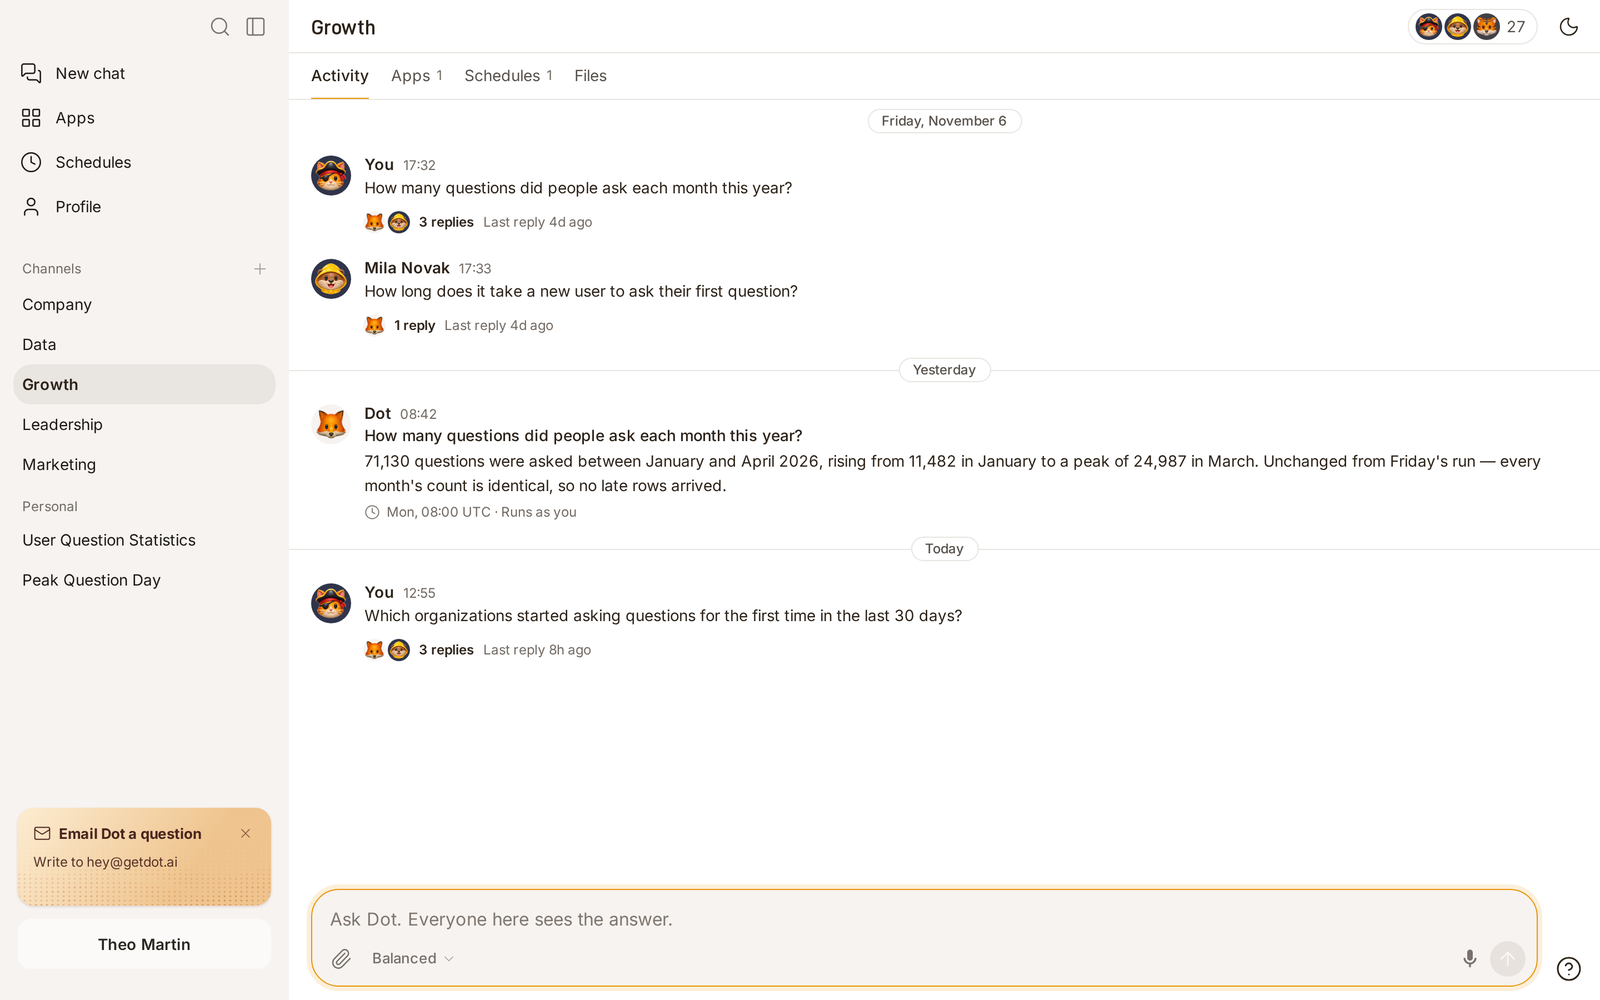
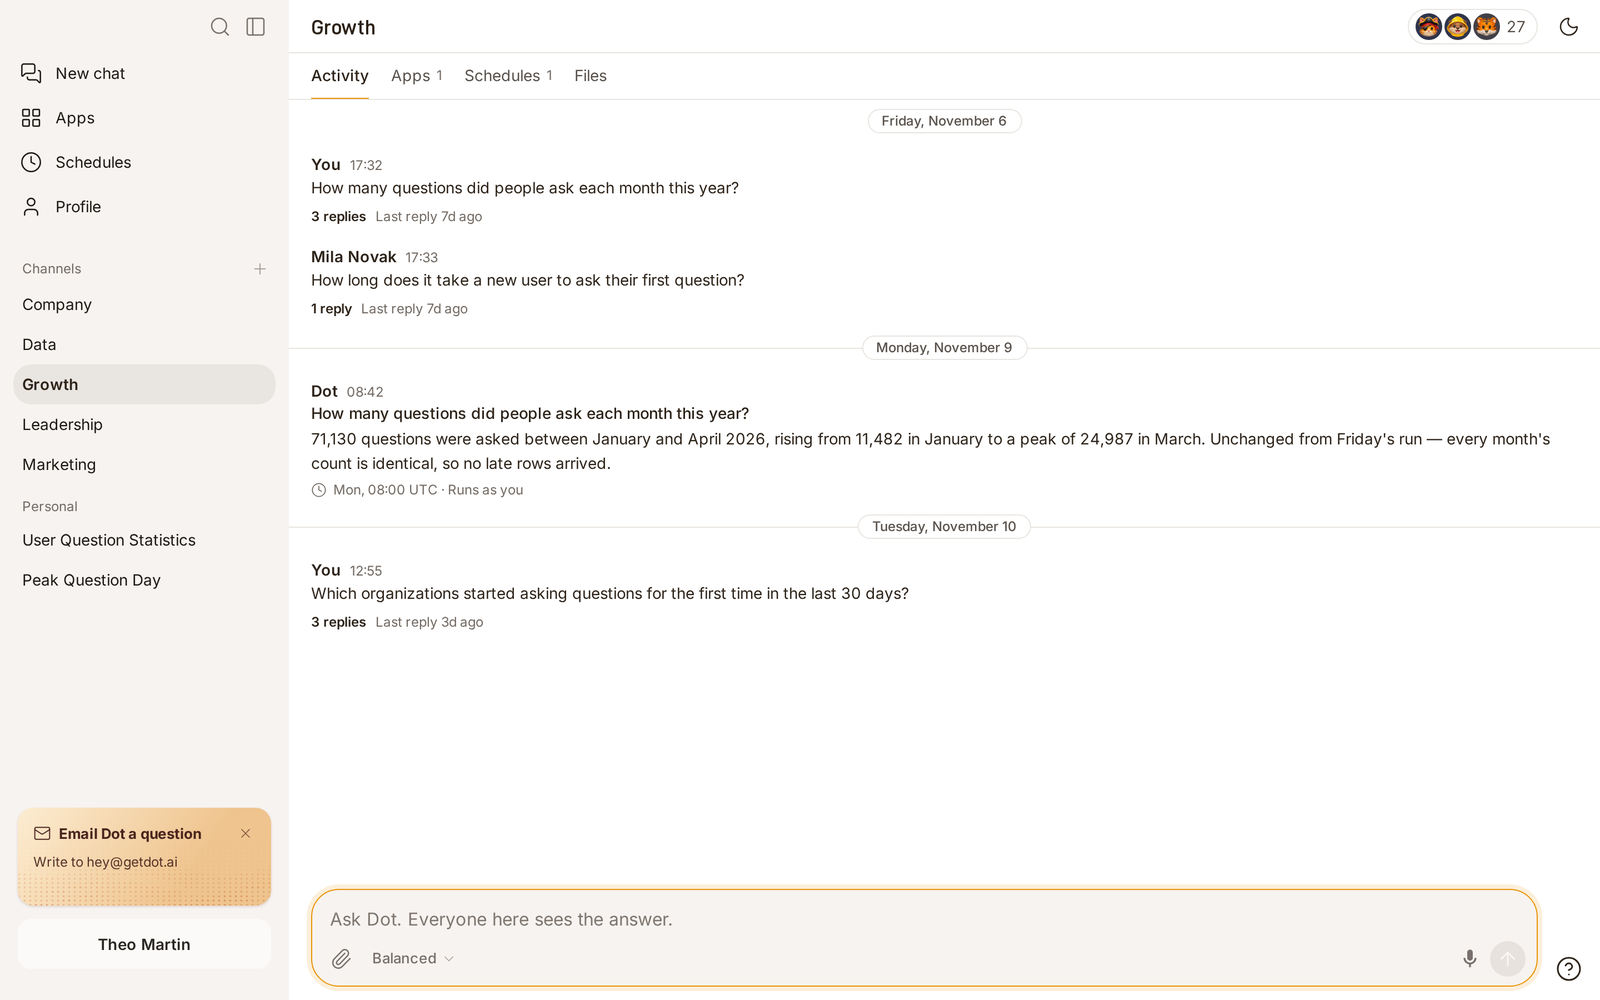
docs: a channel's posts without faces
A channel's activity no longer shows a face beside each post or in
its reply line, so the reply line says how many replies and when the
last came. The two channel pictures are retaken.

diff --git a/dot/dot/whats-dot/teams.md b/dot/dot/whats-dot/teams.md
@@ -15,7 +15,7 @@ A channel is your team's place in Dot. It holds the team's questions to Dot, its
 
 Your question appears in the channel, and its thread opens beside it. Dot answers in the thread, with your own data access, and everyone in the channel sees the answer. To ask a follow-up, use the box in the thread.
 
-Each question in the channel shows who asked it and when. Below it, a line says how many replies the thread has, who replied, and when the last reply came. Click a question or its replies to open the thread. To open a thread as a page of its own, click the arrows at its top.
+Each question in the channel shows who asked it and when. Below it, a line says how many replies the thread has and when the last reply came. Click a question or its replies to open the thread. To open a thread as a page of its own, click the arrows at its top.
 
 <figure><img src="../../.gitbook/assets/team-channel-thread.png" alt="A question's thread open beside the channel, with Dot's answer and a chart"><figcaption><p>A question's thread opens beside the channel.</p></figcaption></figure>
 
